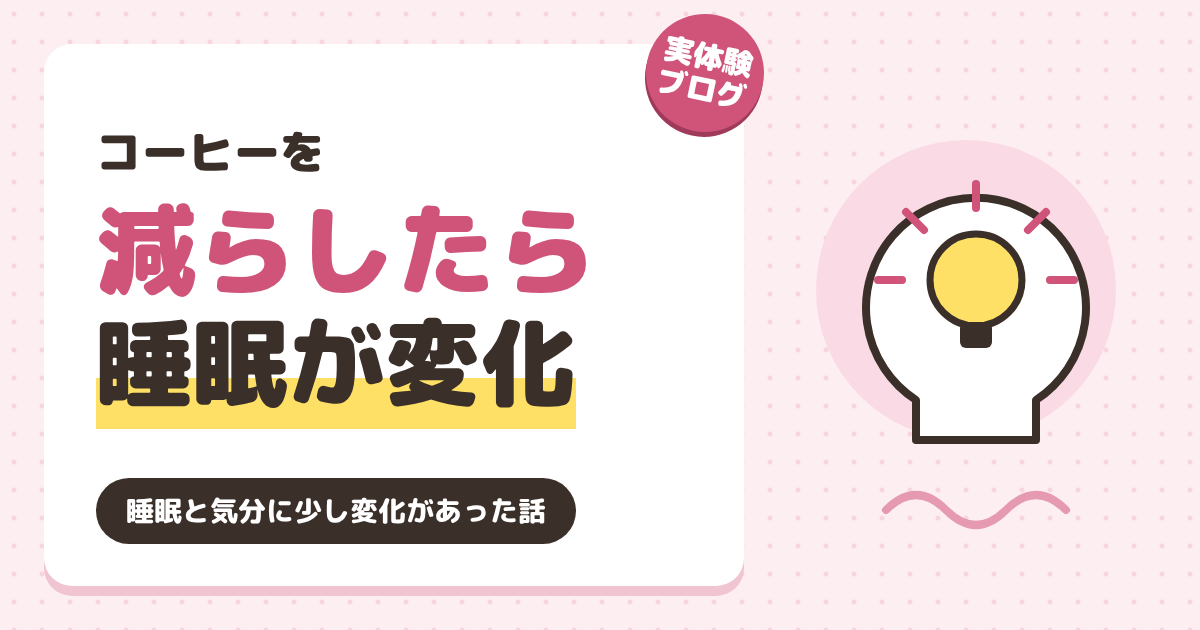
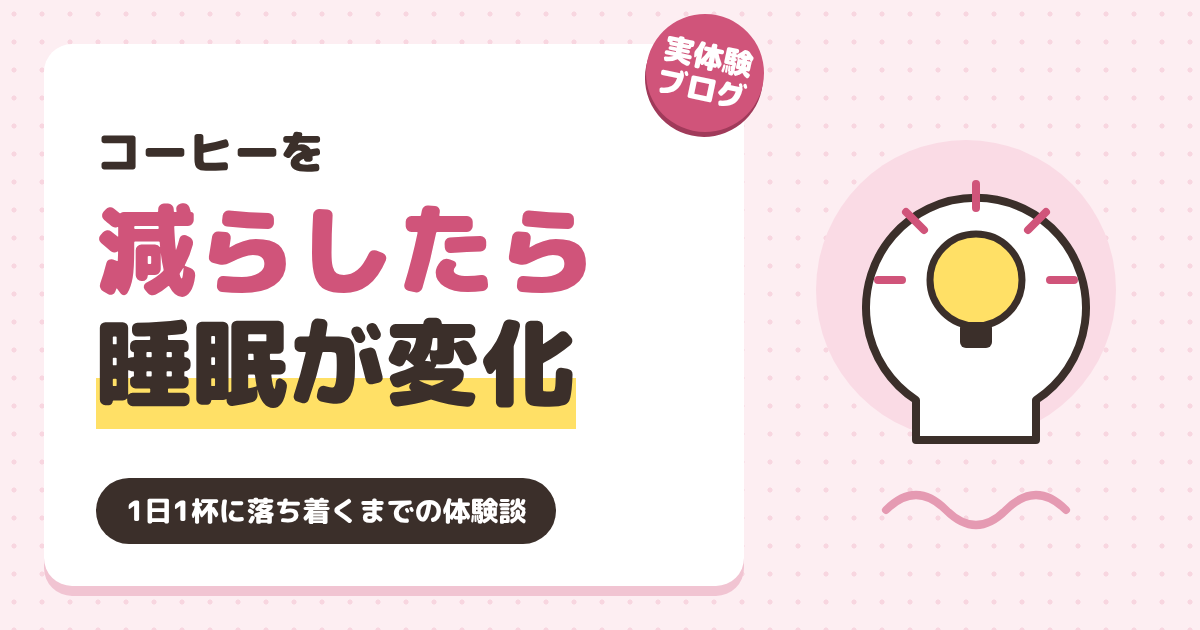
投稿141・151の改稿案と図解、151のアイキャッチ文言を追加（未反映）
Claude-Session: https://claude.ai/code/session_01AbwgezYxuzkhNMxoZh4PnK

Changed region(s): [[0.0925, 0.754, 0.4933, 0.8746]]

diff --git a/ブログジャンル選定/記事_コーヒーを減らした.md b/ブログジャンル選定/記事_コーヒーを減らした.md
@@ -1,0 +1,90 @@
+# コーヒーを減らしたら睡眠と気分はどう変わった？｜1日1杯に落ち着くまでの体験談
+
+コーヒーは、うまくハマるとすごく助かる飲み物です。朝のスイッチを入れてくれたり、仕事の集中力を上げてくれたり、気分を持ち上げてくれたり。
+
+でもあるとき、ふと「これ、ちょっと飲みすぎているかも」と感じました。
+
+この記事では、コーヒーを減らしてみて感じた睡眠と気分の変化と、「完全にやめる」のではなく「1日1杯」に落ち着くまでの体験を書いてみます。
+
+@おさる(考え中): コーヒー、ちょっと飲みすぎているかも…？
+
+<div class="tab-caption-box"><div class="tab-caption-box-label">この記事でわかること</div><div class="tab-caption-box-content"><ul><li>コーヒーを減らそうと思ったきっかけ</li><li>減らしてみて感じた、睡眠と気分の変化</li><li>完全にやめずに「1日1杯」に落ち着いた理由</li></ul></div></div>
+
+## 減らす前の私：1日2杯のブラックコーヒー
+
+以前の私は、コーヒーを1日2杯、500mlを朝と昼に飲んでいました。ブラックで飲むことが多く、量としてはかなり多かったと思います。
+
+飲んだ直後はシャキッとします。頭が働く感じがして、やる気も出る。でもその一方で、こんなことがありました。
+
+<div class="blank-box bb-orange"><p><strong>コーヒーを飲みすぎていた頃に感じていたこと</strong></p><ul><li>頭が痛くなる</li><li>イライラしやすい</li><li>不安感が強くなる</li><li>夜に動悸のようなものを感じる</li><li>体は疲れているのに、頭だけ起きている感じで眠りにくい</li></ul></div>
+
+「自分にはちょっと強いのかもしれない」。そう思って、量を減らしてみることにしました。
+
+<img src="https://health-reset-note.com/wp-content/uploads/2026/11/diagram_151_coffee.png" alt="コーヒーとの付き合い方の変化：以前は1日2杯でイライラや不安、減らしてみたら眠りやすく、今は1日1杯を楽しむ。やめるより、自分に合う量を探す" width="1200" height="675" class="aligncenter">
+
+## どうやって減らしたか
+
+### いきなりゼロにはせず、まず量を減らした
+好きなものを完全に断つのは、正直かなり難しいです。だから、極端にせず、減らせるところから減らしました。最初の10日ほどは、ほとんど飲まず、週に1〜2回、250〜300mlくらいを1杯飲む程度にしていました。
+
+### 代わりにデカフェやお茶を飲んだ
+コーヒーの代わりには、デカフェや、少しだけカフェインが入ったお茶を飲みました。チョコレートも食べるので、カフェインを完全に断ったわけではありません。
+
+それでも、「毎日たくさんコーヒーを飲む」習慣を変えただけで、体の感覚は少し変わってきました。
+
+## 減らしてみて感じた変化
+
+減らし始めて10日ほどで、こんな変化を感じました。
+
+- **イライラが少し減った**：前より気持ちが荒れにくくなった
+- **不安感が少し和らいだ**：「上がりすぎる感じ」が減って、気持ちの波が穏やかになった
+- **夜に寝やすくなった**：劇的ではないけれど、前よりちゃんと眠れる感じがある
+- **夜の動悸が気になりにくくなった**：体が静かに休めている感じがある
+
+特に睡眠の変化は大きかったです。日中の集中力のために飲んでいたつもりが、睡眠を浅くしていたのだとしたら、長い目で見ると逆効果です。==「朝のために夜を犠牲にする」状態から、少し抜けられた==感覚がありました。
+
+睡眠については、ADHDと睡眠の関係を書いたこちらの記事もあわせてどうぞ。
+
+https://health-reset-note.com/adhd%e3%81%a8%e7%9d%a1%e7%9c%a0%e3%81%af%e9%96%a2%e4%bf%82%e3%81%82%e3%82%8b%ef%bc%9f/
+
+## いちばんつらかったのは午前中
+
+減らしていちばんつらかったのは、午前中でした。やっぱり朝になると、コーヒーが飲みたくなります。特に、「シャキッとする感じ」がないのが物足りない。仕事のスイッチが入りにくくて、最初はかなり気になりました。
+
+ただ、午前中を乗り越えれば、あとはなんとかなることが多かったです。「ここが山場だ」と分かっているだけでも、少し対策しやすくなりました。
+
+@おさる(困った): 朝の「シャキッとしない感じ」が、いちばんきつかったです…。
+
+## 結局、完全にやめるのはあきらめた
+
+正直に書くと、その後、コーヒーを完全にやめることはあきらめました。今は、1日1杯は飲んでいます。
+
+コーヒーは、私にとって楽しみの一つでもあります。完全にやめてしまうと、その楽しみまでなくなってしまう。それはそれで、毎日が少し味気なくなります。
+
+だから今は、「コーヒーを敵にする」のではなく、**自分に合う量で楽しむ**ことにしました。1日2杯飲んでいた頃と比べれば、ずいぶん減っています。
+
+@おさる(笑顔): やめるより、1日1杯をおいしく飲むほうが、私には合っていました。
+
+## 「飲みたい」を責めないための考え方
+
+認知行動療法（CBT）の考え方を使うと、コーヒーとの付き合い方が少しラクになります。
+
+<div class="blank-box bb-orange"><p><strong>私がコーヒーとの付き合いで意識していること</strong></p><ul><li>「飲みたい」と思う自分を責めない（スイッチを入れたい、ひと息つきたいのは自然なこと）</li><li>飲んだ直後の気持ちよさと、あとからの影響（イライラ・眠り）を分けて考える</li><li>いきなりやめなくていい。量を減らす、朝だけにする、デカフェに置き換えるなど、少しずつ</li></ul></div>
+
+カフェインの効き方は、人によってかなり違います。同じ量でも平気な人もいれば、眠れなくなったり、不安感が強くなったりする人もいます。だからこそ、「みんなと同じ量」ではなく、「自分に合う量」を探すことが大事なのだと思います。
+
+## まとめ：やめるより、自分に合う量を探す
+
+<div class="tab-caption-box"><div class="tab-caption-box-label">私のコーヒーとの付き合い方</div><div class="tab-caption-box-content"><ul><li>以前：1日2杯（500mlを朝と昼に）で、イライラや不安、眠りにくさがあった</li><li>減らしてみたら：イライラが減り、夜も眠りやすくなった（午前中はつらかった）</li><li>今：完全にやめるのはあきらめて、1日1杯を楽しむ</li></ul></div></div>
+
+コーヒーは、うまく使えば本当に便利です。ただ、私の場合は、飲みすぎると落ち着かなさや眠りの浅さにつながっていました。
+
+いきなりやめなくてもいいので、まずは少し減らしてみる。その小さな変化だけでも、睡眠や気分が変わることがあると思います。そして、楽しみとして残したい分は、残していい。それが、今の私にとってのちょうどいい付き合い方です。
+
+デカフェは、カフェインを控えたいときの置き換えに使っていました。
+
+<!-- START MoshimoAffiliateEasyLink --><script type="text/javascript">(function(b,c,f,g,a,d,e){b.MoshimoAffiliateObject=a;b[a]=b[a]||function(){arguments.currentScript=c.currentScript||c.scripts[c.scripts.length-2];(b[a].q=b[a].q||[]).push(arguments)};c.getElementById(a)||(d=c.createElement(f),d.src=g,d.id=a,e=c.getElementsByTagName("body")[0],e.appendChild(d))})(window,document,"script","//dn.msmstatic.com/site/cardlink/bundle.js?20220329","msmaflink");msmaflink({"n":"【 コーヒー ペットボトル 】ネスカフェ エクセラ ボトルコーヒー カフェインレス無糖 900ml×12本 【 アイスコーヒー 】【 ブラックコーヒー 】【 デカフェ 】","b":"Nescafe","t":"13620196","d":"https:\/\/m.media-amazon.com","c_p":"\/images\/I","p":["\/51ZcF3DXSRL._SL500_.jpg","\/51Jzo0efyGL._SL500_.jpg","\/41zUGKkPPFL._SL500_.jpg","\/61Tn8PtSF5L._SL500_.jpg"],"u":{"u":"https:\/\/www.amazon.co.jp\/dp\/B0GLMH493Z","t":"amazon","r_v":""},"v":"2.1","b_l":[{"id":1,"u_tx":"Amazonで見る","u_bc":"#f79256","u_url":"https:\/\/www.amazon.co.jp\/dp\/B0GLMH493Z","a_id":5660584,"p_id":170,"pl_id":27060,"pc_id":185,"s_n":"amazon","u_so":1},{"id":2,"u_tx":"楽天市場で見る","u_bc":"#f76956","u_url":"https:\/\/search.rakuten.co.jp\/search\/mall\/%E3%80%90%20%E3%82%B3%E3%83%BC%E3%83%92%E3%83%BC%20%E3%83%9A%E3%83%83%E3%83%88%E3%83%9C%E3%83%88%E3%83%AB%20%E3%80%91%E3%83%8D%E3%82%B9%E3%82%AB%E3%83%95%E3%82%A7%20%E3%82%A8%E3%82%AF%E3%82%BB%E3%83%A9%20%E3%83%9C%E3%83%88%E3%83%AB%E3%82%B3%E3%83%BC%E3%83%92%E3%83%BC%20%E3%82%AB%E3%83%95%E3%82%A7%E3%82%A4%E3%83%B3%E3%83%AC%E3%82%B9%E7%84%A1%E7%B3%96%20900ml%C3%9712%E6%9C%AC%20%E3%80%90%20%E3%82%A2%E3%82%A4%E3%82%B9%E3%82%B3%E3%83%BC%E3%83%92%E3%83%BC%20%E3%80%91%E3%80%90%20%E3%83%96%E3%83%A9%E3%83%83%E3%82%AF%E3%82%B3%E3%83%BC%E3%83%92%E3%83%BC%20%E3%80%91%E3%80%90%20%E3%83%87%E3%82%AB%E3%83%95%E3%82%A7%20%E3%80%91\/","a_id":5660575,"p_id":54,"pl_id":27059,"pc_id":54,"s_n":"rakuten","u_so":2}],"eid":"lfEDC","s":"s"});</script><div id="msmaflink-lfEDC">リンク</div><!-- MoshimoAffiliateEasyLink END -->
+
+ほかにも、自分に合わなかった健康法をやめた話を、こちらにまとめています。
+
+https://health-reset-note.com/%e8%87%aa%e5%88%86%e3%81%ab%e5%90%88%e3%82%8f%e3%81%aa%e3%81%8b%e3%81%a3%e3%81%9f%e5%81%a5%e5%ba%b7%e6%b3%95%e3%82%92%e3%82%84%e3%82%81%e3%81%9f%e3%82%89%e3%80%81%e5%b0%91%e3%81%97%e3%83%a9%e3%82%af/

diff --git a/ブログジャンル選定/記事_合わなかった健康法.md b/ブログジャンル選定/記事_合わなかった健康法.md
@@ -1,0 +1,95 @@
+# 健康法が続かないのは意志が弱いから？｜自分に合わなかった健康法をやめたら、少しラクになった話
+
+早起きして朝活をする。毎食きっちり栄養を考える。筋トレを限界まで追い込む。
+
+健康のためには、それが「正解」だと思っていた時期がありました。でも実際には、続かなかったものがたくさんあります。頑張れば頑張るほど、「これは自分に合っていない」と気づいたものもありました。
+
+この記事では、私が試してみて「悪いわけではないけれど、自分には合わなかった健康法」と、やめたあとに落ち着いた今のゆるいやり方をまとめます。なんとなくしんどさを感じながら健康習慣を続けている人の、考えを整理するきっかけになればうれしいです。
+
+@おさる(困った): 健康のために頑張っていたはずが、だんだんしんどくなっていたんです…。
+
+<div class="tab-caption-box"><div class="tab-caption-box-label">この記事でわかること</div><div class="tab-caption-box-content"><ul><li>私には合わなかった健康法と、その理由</li><li>やめたあとに落ち着いた、今のゆるいやり方</li><li>健康法は「正しさ」より「相性」が大事だと感じたこと</li></ul></div></div>
+
+<img src="https://health-reset-note.com/wp-content/uploads/2026/11/diagram_141_yameta.png" alt="やめた健康法と今のやり方：朝活より眠気が少ない生活、完璧な自炊より15分で3日分、毎日追い込む運動より週1回でも、細かい記録よりざっくり。正しさより、続けられる相性" width="1200" height="675" class="aligncenter">
+
+## 1. 朝活：早起きより「日中に眠くならないこと」
+
+朝活は、すごく良さそうに見えます。早起きして、読書をして、運動をして、静かな時間を使う。理想的ですよね。
+
+でも、私にはうまく合いませんでした。無理に早く起きると日中に眠気が出やすくなり、昼や夕方の集中力が落ちてしまうんです。朝に頑張ったはずなのに、昼間にぼーっとしてしまう。結果的に、一日全体の調子が悪くなることがありました。
+
+今思うと、私に必要だったのは朝活そのものではなく、**ちゃんと眠れること**だったのかもしれません。起きる時間を無理に早めるより、日中のパフォーマンスが落ちにくい生活リズムのほうが合っていました。
+
+## 2. 自炊：完璧より「15〜20分で3日分」
+
+食事も、昔はかなり気にしていました。栄養バランスを完璧に整えようとして、毎回細かく考えたり、カロリーを意識したり。でもそこまでやると、食べることが「管理の作業」みたいになって、だんだん疲れてしまいました。
+
+今は、15〜20分くらいで作れるものを、3日分まとめて作っています。たんぱく質は少し意識するけれど、栄養計算まではしない。食べたい食材をベースに、健康に良さそうなものを選ぶ。
+
+==「ちゃんとやること」より「やめないこと」==。そのくらいのゆるさのほうが、結果的に長く続いています。
+
+今の食事の工夫は、こちらの記事にまとめています。
+
+https://health-reset-note.com/%e9%a0%91%e5%bc%b5%e3%82%89%e3%81%aa%e3%81%84%e9%a3%9f%e4%ba%8b%e8%a1%93%ef%bd%9c%e9%9b%86%e4%b8%ad%e5%8a%9b%e3%81%a8%e4%bd%93%e5%9e%8b%e7%b6%ad%e6%8c%81%e3%81%ae%e3%81%9f%e3%82%81%e3%81%ab%e3%80%81/
+
+## 3. カロリー記録：細かい記録より「ざっくり見る」
+
+カロリー記録もやってみましたが、毎回入力したり、数字を見続けたりするのがしんどくなってしまいました。意識は高くなるけれど、そのぶん気持ちも縛られる感覚がありました。
+
+今は細かい記録はしていません。「たんぱく質が少なそうだな」「野菜が足りないな」くらいの感覚で見て、ざっくり調整しています。それだけでも、食事は十分に整えられると感じています。
+
+細かく記録するのが向いている人もいると思います。でも私には、少しラフなくらいのほうが続きました。
+
+## 4. 運動：毎日追い込むより「週1回でもいい」
+
+昔は、筋トレをやるならしっかり追い込むタイプでした。ベンチプレスで100kgを持ち上げられるようになりたい。高重量を扱える体になりたい。今思えば、「強い男性になりたい」という気持ちが強すぎたのだと思います。
+
+でも、そこまでやると気持ちも体も疲れてしまいます。健康のための運動が、逆に負担になっていました。
+
+最近は、週1回でも動ければいいかな、くらいに考えています。昔の自分からするとかなりゆるくなりましたが、今のほうが気持ちは安定しています。
+
+@おさる(笑顔): 追い込む運動より、生活になじむ運動のほうが、私には合っていました。
+
+運動を続けられるようになった話は、こちらにも書いています。
+
+https://health-reset-note.com/%e9%9b%86%e4%b8%ad%e5%8a%9b%e3%81%8c%e7%b6%9a%e3%81%8b%e3%81%aa%e3%81%84%e8%87%aa%e5%88%86%e3%81%8c%e3%80%81%e9%81%8b%e5%8b%95%e3%82%92%e7%b6%9a%e3%81%91%e3%82%8b%e3%82%88%e3%81%86%e3%81%ab%e3%81%aa/
+
+## 5. サプリメント：増やすより「減らす」
+
+プロテインやクレアチンなども、昔は試していました。飲んだ瞬間はなんとなく良さそうに感じることもありました。でも長く続けても、「すごく変わった」とまでは感じにくかったんです。
+
+サプリを増やすと、何を飲んでいるかを管理するのも面倒になります。今は、そこに力を使うより、睡眠や食事を整えるほうがしっくりきています。サプリが合う人もいると思いますが、私にとっては「増やすこと」より「減らすこと」が大事でした。
+
+## 6. 厳しい食事ルール：ガチガチより「ざっくりした軸」
+
+「何時以降は食べない」のように、時間で食事を厳しく区切るやり方も合いませんでした。ガチガチに決めると窮屈に感じやすく、少し外れただけで「もうダメだ」と思ってしまうのも良くなかったです。
+
+今は、無理なく食べる。食べすぎたら少し整える。そのくらいの軸で考えています。
+
+## 番外編：いちばん意外だったのはコーヒー
+
+意外だったのは、コーヒーです。飲むと元気が出る感覚はある一方で、神経が張りつめるような感じや、少し散漫になる感じがありました。眠りの質にも影響していたように思います。
+
+そこで量を減らしてみたところ、睡眠や気分に少し変化がありました。ただ、完全にやめるのは楽しみがなくなるので、今は1日1杯と付き合っています。その体験は、こちらの記事に詳しく書いています。
+
+https://health-reset-note.com/%e3%82%b3%e3%83%bc%e3%83%92%e3%83%bc%e3%82%92%e6%b8%9b%e3%82%89%e3%81%97%e3%81%a6%e3%81%bf%e3%81%9f%e3%82%89%e3%80%81%e7%9d%a1%e7%9c%a0%e3%81%a8%e6%b0%97%e5%88%86%e3%81%ab%e5%b0%91%e3%81%97%e5%a4%89/
+
+## 合わなかった健康法から見えてきたこと
+
+いろいろ試して思ったのは、健康法には「万人に正しいもの」があるというより、**自分に合うかどうか**のほうが大きいということです。
+
+<div class="blank-box bb-orange"><p><strong>私が感じた「続く健康法」と「続かない健康法」の違い</strong></p><ul><li>ストイックすぎるものは、続きにくい</li><li>手間が少ないものは、続きやすい</li><li>気合いでやるものより、生活になじむものが残る</li></ul></div>
+
+合わなかったものを振り返るのは、少しネガティブに見えるかもしれません。でも、何が自分を疲れさせるのか、何が続かないのかを知ることは、大事な自己理解だと思っています。
+
+==「合わなかった」は失敗ではなく、自分を知る手がかり==。私にとっては、頑張ることを増やすより、無理を減らすことのほうが大事でした。
+
+@おさる(普通): 続かなかったのは、意志が弱いからじゃなくて、相性だったのかもしれません。
+
+## まとめ：健康は、頑張りすぎるより「続けられる形」に
+
+<div class="tab-caption-box"><div class="tab-caption-box-label">やめた健康法 → 今のやり方</div><div class="tab-caption-box-content"><ul><li>朝活 → 日中に眠くならない生活リズム</li><li>完璧な自炊 → 15〜20分で作れるものを3日分</li><li>細かいカロリー記録 → ざっくり見て調整</li><li>毎日追い込む運動 → 週1回でも動ければOK</li><li>サプリを増やす → 睡眠と食事を整える</li><li>厳しい食事ルール → 無理なく食べて、食べすぎたら整える</li></ul></div></div>
+
+どれも悪い健康法ではありません。ただ、私には少し重かったのだと思います。
+
+健康は、頑張りすぎることではなく、続けられる形にすること。そう考えるようになって、少しだけ自分との付き合い方がやさしくなった気がします。
